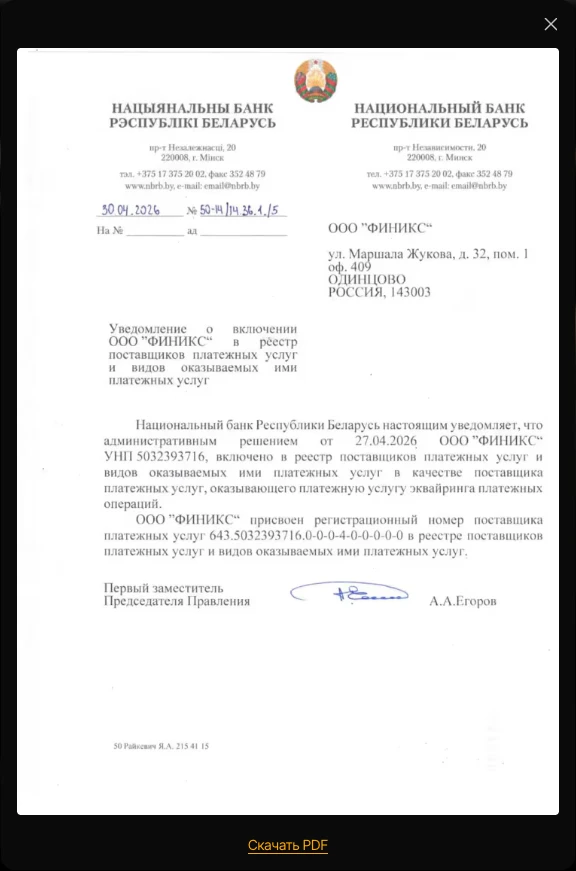
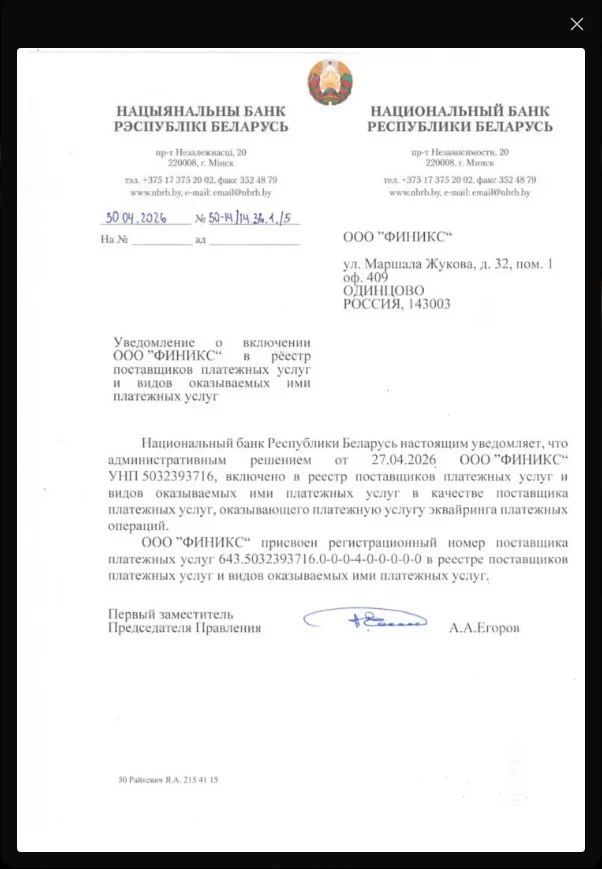
docs: инструкция по уведомлению — без скачивания PDF

diff --git a/notice-instrukciya/index.html b/notice-instrukciya/index.html
@@ -72,10 +72,10 @@
     </div>
 
     <p class="lead">По нажатию страница никуда не переходит — открывается окно с картинкой
-      документа и кнопкой «Скачать PDF».</p>
+      документа. Лист виден целиком, скачивать ничего не нужно.</p>
 
     <figure class="shot shot-dialog">
-      <img src="img/okno.webp" alt="Окно с уведомлением Национального банка о включении ООО «ФИНИКС» в реестр, под документом — кнопка «Скачать PDF»" width="576" height="871" loading="lazy">
+      <img src="img/okno.webp" alt="Окно с уведомлением Национального банка о включении ООО «ФИНИКС» в реестр" width="602" height="869" loading="lazy">
       <figcaption>Окно закрывается крестиком, клавишей Esc или нажатием мимо документа.</figcaption>
     </figure>
   </section>
@@ -84,7 +84,7 @@
     <div class="part-head">
       <h2>2. Куда загрузить документ</h2>
       <p class="lead">Раздел «Реквизиты компании» в админке, блок «Уведомление о включении
-        в реестр». Там два поля.</p>
+        в реестр». Там одно поле — картинка документа.</p>
     </div>
 
     <table class="est">
@@ -98,17 +98,14 @@
             Подходят JPEG, PNG, WebP. <b>Без картинки ссылки на сайте не будет вовсе</b> —
             фраза останется обычным текстом, без подчёркивания и без нажатия.</span></td>
         </tr>
-        <tr>
-          <td><span class="t">PDF для скачивания</span></td>
-          <td><span class="d">Необязательное поле. Если файл загружен, под картинкой в окне
-            появляется «Скачать PDF» с оригиналом. Без него кнопки просто не будет,
-            остальное окно работает как обычно.</span></td>
-        </tr>
       </tbody>
     </table>
 
-    <p class="lead">Обновить документ — значит перезалить оба поля новыми файлами
+    <p class="lead">Обновить документ — значит загрузить новую картинку в это поле
       и нажать «Сохранить». Правка видна на сайте сразу.</p>
+    <p class="lead">Если на руках только PDF, сохраните его страницу картинкой: на Mac —
+      открыть в «Просмотре» и «Экспортировать» в PNG или JPEG. Сам PDF в это поле
+      не загрузится — админка примет только картинку.</p>
   </section>
 
   <section class="part" id="tekst-ssylki">
@@ -156,8 +153,8 @@
         <div class="d">
           <p>На iPhone встроенный просмотр PDF работает нестабильно: иногда не открывается
             вовсе, иногда вместо показа начинается скачивание. Картинка показывается всегда
-            одинаково, а кнопка «Скачать PDF» рядом даёт доступ к оригиналу для печати
-            или пересылки.</p>
+            одинаково на любом устройстве, а лист на ней виден целиком — отдельно скачивать
+            документ не нужно.</p>
         </div>
       </li>
       <li>
